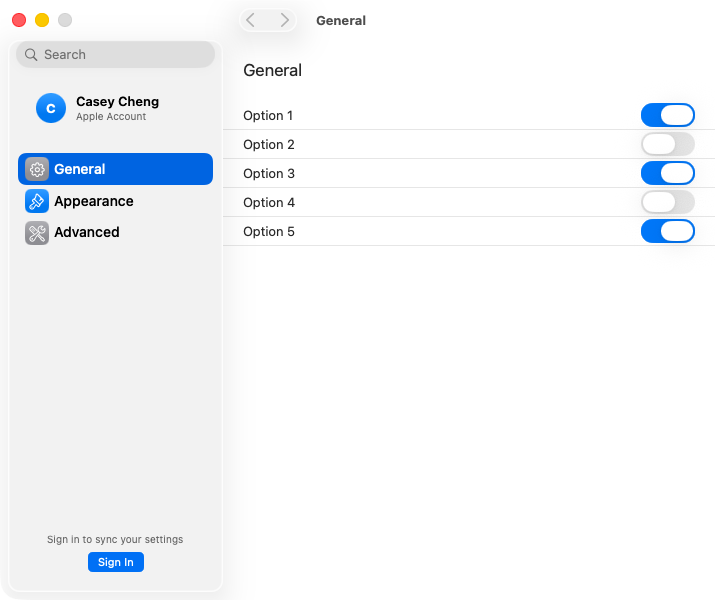
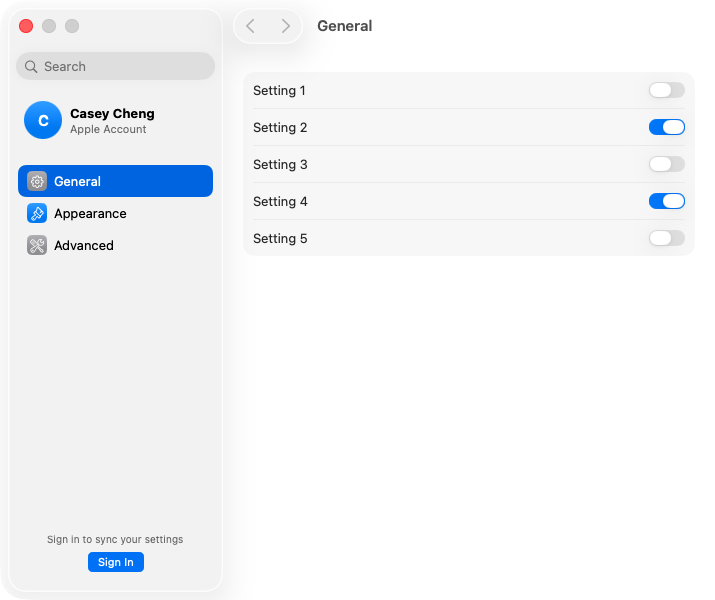
docs: show macOS 15, 26 and 27 in the README

diff --git a/README.md b/README.md
@@ -14,13 +14,11 @@ Settings.
 [![CI](https://github.com/chengzi-io/SidebarSettingsKit/actions/workflows/ci.yml/badge.svg)](https://github.com/chengzi-io/SidebarSettingsKit/actions/workflows/ci.yml)
 
 <p align="center">
-  <img src="docs/assets/screenshots/macos-26-plain-light-scenario-5.png" width="49%" alt="The settings window with plain icons, macOS 26, light appearance">
-  <img src="docs/assets/screenshots/macos-26-tiled-light-scenario-5.png" width="49%" alt="The settings window with icons on tiles, macOS 26, light appearance">
+  <img src="docs/assets/screenshots/macos-15-tiled-light-scenario-5.png" width="32%" alt="The settings window on macOS 15, icons on tiles, light appearance">
+  <img src="docs/assets/screenshots/macos-26-tiled-light-scenario-5.png" width="32%" alt="The settings window on macOS 26, icons on tiles, light appearance">
+  <img src="docs/assets/screenshots/macos-27-tiled-light-scenario-5.png" width="32%" alt="The settings window on macOS 27, icons on tiles, light appearance">
 </p>
-<p align="center">
-  <img src="docs/assets/screenshots/macos-26-plain-dark-scenario-1.png" width="49%" alt="The settings window with plain icons, macOS 26, dark appearance">
-  <img src="docs/assets/screenshots/macos-26-tiled-dark-scenario-1.png" width="49%" alt="The settings window with icons on tiles, macOS 26, dark appearance">
-</p>
+<p align="center"><sub>macOS 15 · macOS 26 · macOS 27</sub></p>
 
 ## Add it with an AI agent
 
